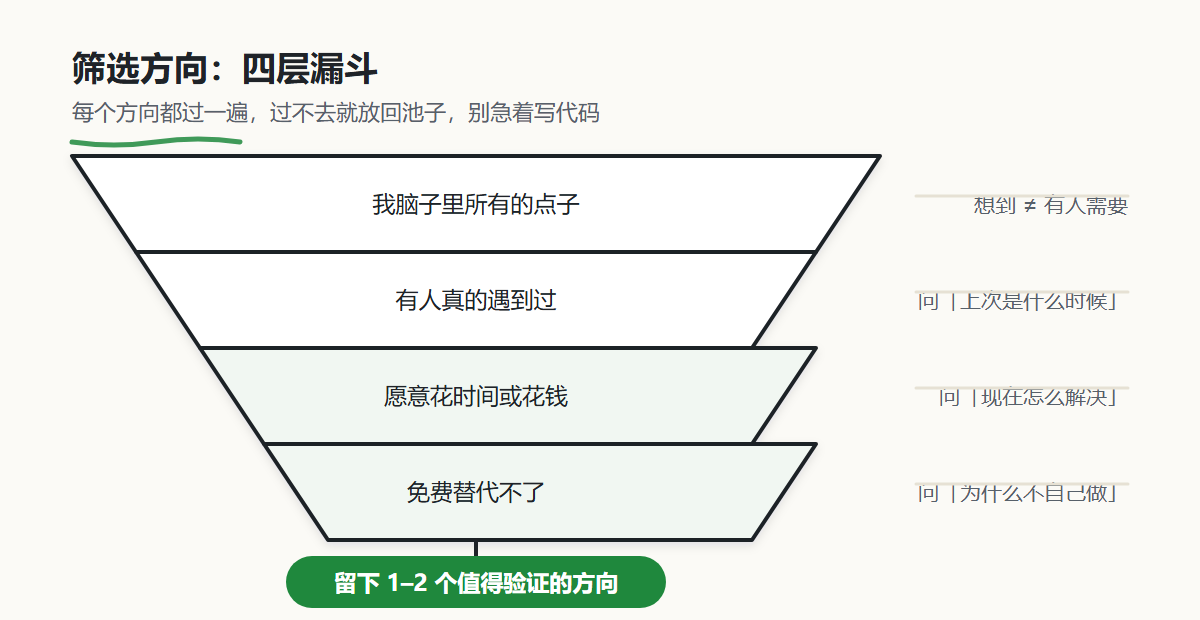
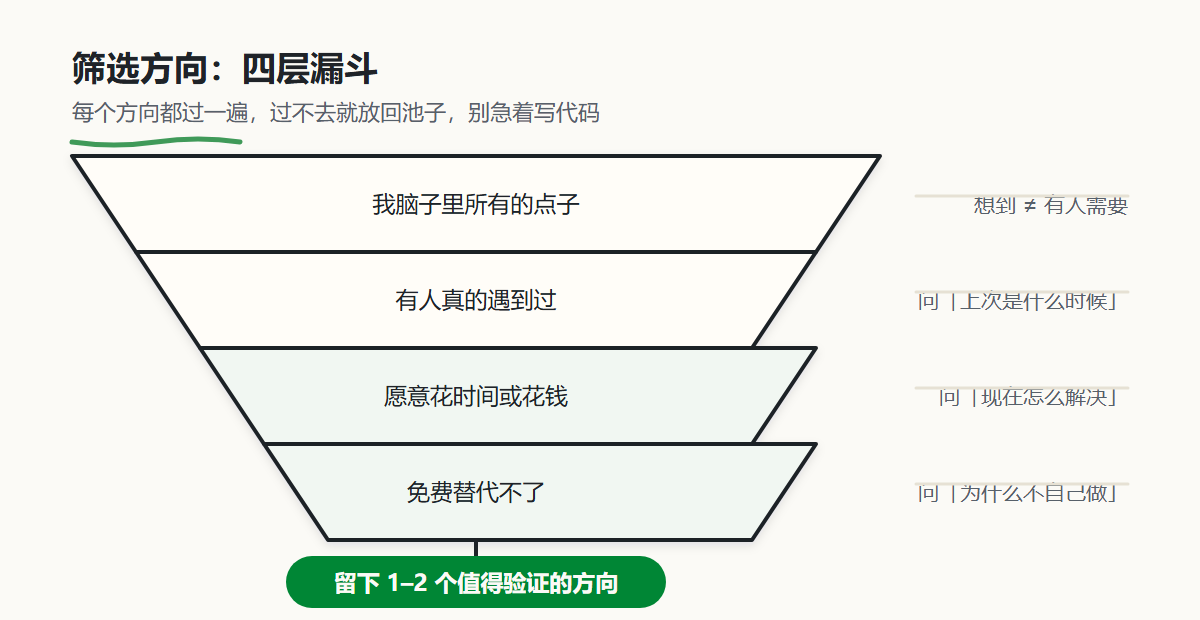
fix(design-system): name the two colours figures kept inventing, and gate the rest
Fifteen figures carried five unsanctioned hexes -- a light green wash used for
every conclusion banner, pure white used for card fills, and three ad-hoc greys.
Reviewing each figure could not fix that, because the drift was the agents
agreeing on something the tokens never had.

So the two conventions that actually earn their place are now named and
measured (marker-wash, rule), and the rest collapse onto existing tokens.
19 text runs were sitting on raw --accent, which measures 4.33:1 and fails;
they use accent-ink instead.

Two gates were broken rather than missing:
- contrast.mjs compared import.meta.url to a hand-built file:// string, which
  never matches on Windows, so the "CI gate" printed nothing and exited 0.
- render_figures.py now refuses to rasterise an off-token hex or accent-coloured
  text, so the next 190 figures cannot drift. Verified with a deliberate probe.

Changed region(s): [[0.2158, 0.8887, 0.555, 0.9806]]

diff --git a/design/system/tokens.css b/design/system/tokens.css
@@ -12,6 +12,8 @@
   --ink: #1f2328;          /* L25.4%；正文 + 墨线（非纯黑，符合“不用纯黑”） */
   --ink-soft: #57606a;     /* L48.5%；次要文字 · /paper 6.12:1 · APCA 78 ✓ 次要 */
   --marker: #d3efd9;       /* L92.6%；marker 高亮底，其下只放 --ink（ink/marker APCA 89 ✓），绝不放 accent 文字 */
+  --marker-wash: #f1f7f2;  /* 结论横幅底：比 --marker 浅一档，ink APCA 97 / ink-soft 76 ✓；带 --accent 描边 */
+  --rule: #e6e1d4;         /* 暖纸灰细线 / 停用态卡底；ink APCA 85、ink-soft 64 ✓，只与 ink、ink-soft 配对 */
 
   /* —— 强调色：原色仅图形/大字；文字用派生深色（源自 contrast.mjs descend）—— */
   --accent: #1f883d;        /* 手绘波形下划线/图形强调/大字：APCA 68 仅够展示线，禁作小字 */

diff --git a/design/handdraw/render_figures.py b/design/handdraw/render_figures.py
@@ -14,8 +14,33 @@ CHROME = r"C:\Program Files\Google\Chrome\Application\chrome.exe"
 ROOT = Path(__file__).resolve().parents[2]
 SVG_DIR = ROOT / "book" / "assets" / "handdraw"
 OUT_DIR = ROOT / "design" / "handdraw" / "renders"
+TOKENS = ROOT / "design" / "system" / "tokens.css"
 
 SIZE_RE = re.compile(r'(?<![-\w])(width|height)\s*=\s*"(\d+(?:\.\d+)?)"')
+HEX_RE = re.compile(r'#[0-9a-fA-F]{6}')
+
+
+def allowed_colors() -> set:
+    """tokens.css is the single source of truth; a figure may not invent a colour."""
+    return {h.lower() for h in HEX_RE.findall(TOKENS.read_text(encoding="utf-8"))}
+
+
+def check_tokens(path: Path) -> None:
+    allowed = allowed_colors()
+    text = path.read_text(encoding="utf-8")
+    stray = {h.lower() for h in HEX_RE.findall(text)} - allowed
+    if stray:
+        raise SystemExit(
+            f"{path.name}: off-token {', '.join(sorted(stray))} — add it to "
+            f"design/system/tokens.css and measure it in contrast.mjs, or use a token"
+        )
+    # role misuse: --accent / --persimmon are display-only, text must use the -ink variants
+    bad = re.findall(r'<text[^>]*fill="(#1f883d|#e2601f)"', text)
+    if bad:
+        raise SystemExit(
+            f"{path.name}: {len(bad)} text run(s) in display-only {sorted(set(bad))} "
+            f"— use #008635 / #c74c00 for text, keep the bright pair for graphics"
+        )
 
 
 def svg_size(path: Path):
@@ -34,6 +59,7 @@ def render(slug: str) -> Path:
     svg = SVG_DIR / f"{slug}.svg"
     if not svg.exists():
         raise SystemExit(f"missing {svg}")
+    check_tokens(svg)
     width, height = svg_size(svg)
     OUT_DIR.mkdir(parents=True, exist_ok=True)
     png = OUT_DIR / f"hd-{slug}.png"

diff --git a/design/system/REVIEW.md b/design/system/REVIEW.md
@@ -42,12 +42,18 @@
 
 | 编号 | 状态 | 内容 |
 | --- | --- | --- |
-| R-01 | **OPEN** | `learn-path` 缺钩子。方案：把「每一步都产出可以看见的东西」画成每步右下角一枚小产出物标记（线索卡 / 漏斗 / 任务卡 / 录音 / 双钻 / 原型框 / 插头 / 链接），而不是只加一句标语。第三批收尾时连同 stack 版一起处理 |
+| R-01 | CLOSED | `learn-path` 缺钩子 → 八步各加一枚产出物 pill（问题线索 / 候选方向清单 / 任务卡 / 访谈证据 / 选定方案 / 能点的原型 / 跑通的功能 / 公网链接），并重渲复验 |
 | R-02 | CLOSED（本轮） | `render-pipeline` 「合并」标签压箭头头部 → 删除该标签并重渲复验 |
+| R-03 | CLOSED（本轮） | **全 15 张图都在私自发明颜色**：`#f1f7f2`×21、纯白 `#ffffff`×20、第四/五种灰 `#8b8f96 #b8b4a8 #f2f1ec #e6e1d4`。处理：把事实上的两个约定正式命名为 `--marker-wash`、`--rule`（都实测过 APCA），其余归一到 token；纯白卡→`--card`，白字压 `#1f883d`→`--paper` 压 `--accent-block` |
+| R-04 | CLOSED（本轮） | `contrast.mjs` 的 CLI 守卫 `import.meta.url === \`file://${process.argv[1]}\`` 在 Windows 上**永远不成立**，直接 `node` 跑它零输出、退出码 0——一个从没执行过的“CI 门”。改用 `pathToFileURL(argv[1]).href` 比对；门一跑起来就抓到 `accent-ink/marker` APCA 58.3 与 `#8b8f96` 正文 3.11:1 两处真缺陷 |
+| R-05 | CLOSED（本轮） | `error-flow` 卡片 2 的引文 `「我想做 X，它报错了」` 21px 溢出卡宽 15px、被箭头压住 → 收字为 `「我想做 X，报错了」`；同时横幅原文数字锚「90% 的报错你都能自己解决」被写成了“大部分”，已换回可复述的数字 |
 | O-01 | WATCH | `agent-loop` 底部 Guardrails 为纯文字；重画时转为护栏图形 |
 | O-02 | WATCH | 中心标注类图按「分组封顶 2 组、每组 3 卡」执行，避免卫星卡堆到 6 张以上 |
+| O-03 | WATCH | 19 处 `--accent` 原色被用作 19–23px 文字（WCAG 4.33 < 4.5）已全部改为 `--accent-ink`；后续批次若仍想“更亮的绿”，说明 token 缺档，应改 token 而不是改图 |
 
 ## 本轮流程侧发现（值得固化的坑）
 
 - `render_figures.py` 首版用 `\b(width|height)` 解析 `<svg>` 尺寸，`stroke-width="4"` 里的 `width` 被当成属性，取到 4×88 的窗口，Chrome 出一张 112 字节的空白 PNG 且**退出码为 0**。修法：只在 `<svg …>` 开标签内匹配，并要求属性名前不连字符；脚本再加「PNG < 5000 字节即失败」的硬检查。教训：**栅格化后必须真的看图，不能只看命令成功**。
 - 图与相邻图片的正文间隔要在插入**之后**再量一次：本轮六张插入后最小间隔 4502 字（要求 ≥400–500）。审计脚本要排除 figure 自身块，否则会把 `<figure>` 当成「上一张图」得出 0 间隔的假阳性。
+- **并行 agent 会各自发明颜色**。15 张图里 5 种越界色、19 处 accent 小字，全是不同 agent 独立收敛出的“看起来差不多”的值——靠评审抓不完。已把校验前移到出图环节：`render_figures.py` 渲之前用 `tokens.css` 做白名单，并对 `<text fill="#1f883d|#e2601f">` 直接非零退出（已用探针验证会拦）。下一批 agent 的提示词里不必再复述色值，改成「渲不过就报错」。
+- 门本身也要被验：`contrast.mjs` 静默零输出跑了整个 Phase A。以后新增校验脚本，先**故意塞一个坏例子确认它会失败**，再信它的绿色。

diff --git a/design/system/tokens.md b/design/system/tokens.md
@@ -18,7 +18,12 @@
 | 正文 | ink | `#d3efd9` marker | 12.88 | 89.1 | 正文 | PASS |
 | 次要文字 | `#57606a` | paper | 6.12 | 78.7 | 次要 | PASS |
 | 次要文字 | ink-soft | card | 6.29 | 80.6 | 次要 | PASS |
+| 结论横幅底 | ink | `#f1f7f2` marker-wash | 14.54 | 97.0 | 正文 | PASS |
+| 结论横幅底 | ink-soft | marker-wash | 5.88 | 76.0 | 次要 | PASS |
+| 细线/停用卡底 | ink-soft | `#e6e1d4` rule | 4.89 | 64.2 | 次要 | PASS |
 | 绿小字/细线 | `#008635` accent-ink | paper | 4.51 | 69.0 | 小字强调 | PASS |
+| 绿小字/细线 | accent-ink | marker-wash | 4.33 | 66.3 | 小字强调 | 临界（WCAG <4.5），改放 ink-soft |
+| 绿小字/细线 | accent-ink | `#d3efd9` marker | 3.84 | 58.3 | — | **FAIL：绿字不许压绿底** |
 | 绿实块上纸色字 | paper | `#008635` accent-block | 4.51 | 74.1 | 色块文字 | PASS |
 | 绿下划线/图形（大字档） | `#1f883d` accent | paper | 4.33 | 67.9 | 展示线 | 仅大字/图形，**禁作小字** |
 | 橙 CTA 填充/苹果/箭头（大字） | `#e2601f` persimmon | paper | 3.39 | 59.2 | 展示线 | 仅大字/填充，**禁作小字**；小字改 `--persimmon-ink:#c74c00` |
@@ -29,10 +34,13 @@ OKLCH 锚点（供再派生/换品牌色）：paper L98.5 C.0054 H95.1｜card L9
 
 - **正文/标题/墨线/图解线稿** 一律 `--ink`；次要说明、图注 `--ink-soft`。
 - **强调只有一处**：`--accent` 用于波形下划线、图形标记、大号数字（≥展示线尺寸）。需要绿色**小字或细线**时用 `--accent-ink`，不用 `--accent`。
-- **marker 高亮** `--marker` 只做关键词底纹，**其下文字必为 `--ink`**（marker 上放任何彩色都读不动）。
+- **marker 高亮** `--marker` 只做关键词底纹，底上只放 `--ink` / `--ink-soft`；**绿字压绿底不达标**（accent-ink/marker APCA 58.3 < 60），`contrast.mjs` 已把它列为禁止组合。
+- **结论横幅** 用 `--marker-wash`（比 marker 浅一档）+ `--accent` 描边；它和 `--marker` 的分工是“横幅讲整句结论、marker 标单个词”，同图里两者别混用同一语义。
+- **细线与停用态** 用 `--rule`：分隔线、以及“这是错例/已弃用”的灰卡底（如 Mom Test 左列）。灰卡上的文字仍走 `--ink`/`--ink-soft`，不许再引入第四种灰。
 - **柿子橙 `--persimmon` 是稀缺点缀**：只给 CTA 块、苹果、方向箭头，且是大号；橙色小字一律 `--persimmon-ink`。
 - **实色绿块**（如“下一步/成功”填充）用 `--accent-block` + `--paper` 文字，绝不用白 `#fff`（违反“不用纯白”）。
 - 每套版式**最多 1 个 accent 色**；手绘的绿与橙按“一主(绿)一点缀(橙)”分工。
+- **以上规则由机器把关**：`design/handdraw/render_figures.py` 出图前会读 `tokens.css` 做白名单校验，并对 `<text fill="#1f883d|#e2601f">` 直接报错——越界色根本渲不出来，不靠人记住。
 
 ## 4. 手绘质感签名（三件套，任何新资产必须带上以保证同源）
 
